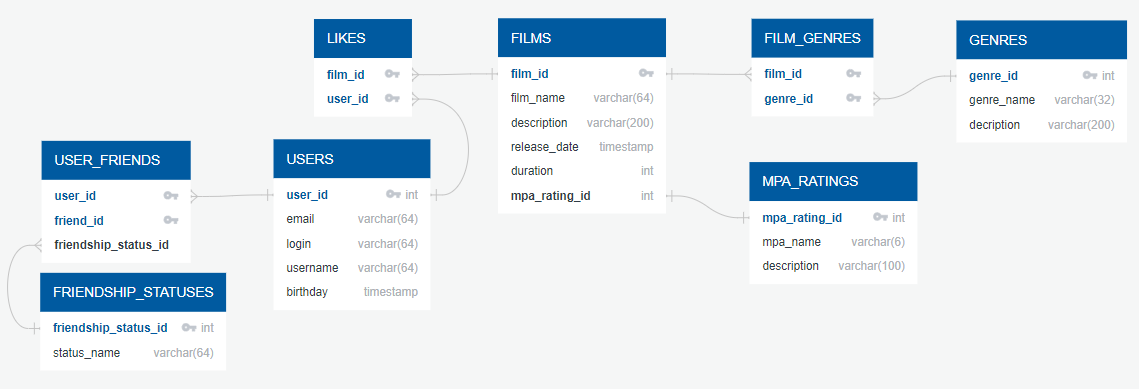
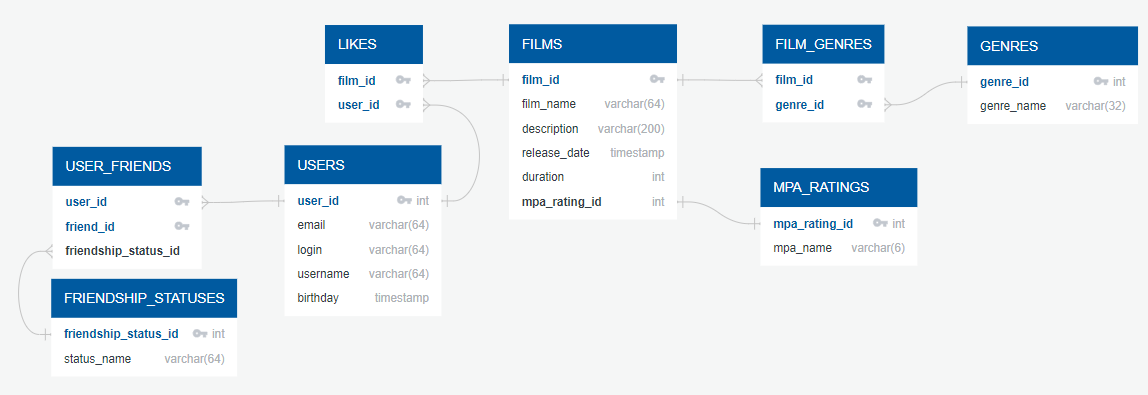
feat: добавлены DAO для mpa и genres

diff --git a/src/main/java/ru/yandex/practicum/filmorate/service/FilmService.java b/src/main/java/ru/yandex/practicum/filmorate/service/FilmService.java
@@ -6,8 +6,12 @@ import org.springframework.stereotype.Service;
 import ru.yandex.practicum.filmorate.exceptions.FilmNotFoundException;
 import ru.yandex.practicum.filmorate.exceptions.InvalidFilmException;
 import ru.yandex.practicum.filmorate.model.Film;
+import ru.yandex.practicum.filmorate.model.Genre;
+import ru.yandex.practicum.filmorate.model.MpaRating;
+import ru.yandex.practicum.filmorate.storage.dao.GenreDao;
 import ru.yandex.practicum.filmorate.storage.dao.LikesDao;
 import ru.yandex.practicum.filmorate.storage.dao.FilmStorageDao;
+import ru.yandex.practicum.filmorate.storage.dao.MpaRatingDao;
 
 import java.util.ArrayList;
 import java.util.List;
@@ -17,11 +21,18 @@ public class FilmService {
 
     private final FilmStorageDao filmStorageDao;
     private final LikesDao likesDao;
+    private final GenreDao genreDao;
+    private final MpaRatingDao mpaRatingDao;
 
     @Autowired
-    public FilmService(@Qualifier("filmDbStorageDaoImpl") FilmStorageDao filmStorageDao, LikesDao likesDao) {
+    public FilmService(@Qualifier("filmDbStorageDaoImpl") FilmStorageDao filmStorageDao,
+                       LikesDao likesDao,
+                       GenreDao genreDao,
+                       MpaRatingDao mpaRatingDao) {
         this.filmStorageDao = filmStorageDao;
         this.likesDao = likesDao;
+        this.genreDao = genreDao;
+        this.mpaRatingDao = mpaRatingDao;
     }
 
     public Film add(Film film) throws InvalidFilmException {
@@ -54,5 +65,21 @@ public class FilmService {
 
         if (result.size() <= count) return result;
         return result.subList(0, count);
+    }
+
+    public List<Genre> findAllGenres() {
+        return genreDao.findAllGenres();
+    }
+
+    public Genre findGenreById(long id) {
+        return genreDao.findGenreById(id);
+    }
+
+    public List<MpaRating> findAllMpaRatings() {
+        return mpaRatingDao.findAllMpaRatings();
+    }
+
+    public MpaRating findMpaRatingById(long id) {
+        return mpaRatingDao.findMpaRatingById(id);
     }
 }

diff --git a/src/main/java/ru/yandex/practicum/filmorate/storage/impl/MpaRatingDaoImpl.java b/src/main/java/ru/yandex/practicum/filmorate/storage/impl/MpaRatingDaoImpl.java
@@ -1,0 +1,42 @@
+package ru.yandex.practicum.filmorate.storage.impl;
+
+import org.springframework.beans.factory.annotation.Autowired;
+import org.springframework.data.relational.core.dialect.HsqlDbDialect;
+import org.springframework.jdbc.core.JdbcTemplate;
+import org.springframework.stereotype.Component;
+import ru.yandex.practicum.filmorate.model.MpaRating;
+import ru.yandex.practicum.filmorate.storage.dao.MpaRatingDao;
+
+import java.sql.ResultSet;
+import java.sql.SQLException;
+import java.util.List;
+
+@Component
+public class MpaRatingDaoImpl implements MpaRatingDao {
+
+    private final JdbcTemplate jdbcTemplate;
+
+    @Autowired
+    public MpaRatingDaoImpl(JdbcTemplate jdbcTemplate) {
+        this.jdbcTemplate = jdbcTemplate;
+    }
+
+    @Override
+    public List<MpaRating> findAllMpaRatings() {
+        String sqlQuery = "select * from MPA_RATINGS";
+        return jdbcTemplate.query(sqlQuery, this::makeMpaRating);
+    }
+
+    @Override
+    public MpaRating findMpaRatingById(long id) {
+        String sqlQuery = "select * from MPA_RATINGS where mpa_rating_id = ?";
+        return jdbcTemplate.query(sqlQuery, this::makeMpaRating, id).get(0);
+    }
+
+    private MpaRating makeMpaRating(ResultSet rs, int rowNum) throws SQLException {
+        return MpaRating.builder()
+                .id(rs.getLong("mpa_rating_id"))
+                .name(rs.getString("mpa_name"))
+                .build();
+    }
+}

diff --git a/src/main/java/ru/yandex/practicum/filmorate/storage/impl/GenreDaoImpl.java b/src/main/java/ru/yandex/practicum/filmorate/storage/impl/GenreDaoImpl.java
@@ -1,0 +1,41 @@
+package ru.yandex.practicum.filmorate.storage.impl;
+
+import org.springframework.beans.factory.annotation.Autowired;
+import org.springframework.jdbc.core.JdbcTemplate;
+import org.springframework.stereotype.Component;
+import ru.yandex.practicum.filmorate.model.Genre;
+import ru.yandex.practicum.filmorate.storage.dao.GenreDao;
+
+import java.sql.ResultSet;
+import java.sql.SQLException;
+import java.util.List;
+
+@Component
+public class GenreDaoImpl implements GenreDao {
+
+    private final JdbcTemplate jdbcTemplate;
+
+    @Autowired
+    public GenreDaoImpl(JdbcTemplate jdbcTemplate) {
+        this.jdbcTemplate = jdbcTemplate;
+    }
+
+    @Override
+    public List<Genre> findAllGenres() {
+        String sqlQuery = "select * from GENRES";
+        return jdbcTemplate.query(sqlQuery, this::makeGenre);
+    }
+
+    @Override
+    public Genre findGenreById(long id) {
+        String sqlQuery = "select * from GENRES where GENRE_ID = ?";
+        return jdbcTemplate.query(sqlQuery, this::makeGenre, id).get(0);
+    }
+
+    private Genre makeGenre(ResultSet rs, int rowNum) throws SQLException {
+        return Genre.builder()
+                .id(rs.getLong("genre_id"))
+                .name(rs.getString("genre_name"))
+                .build();
+    }
+}

diff --git a/src/main/java/ru/yandex/practicum/filmorate/controllers/FilmController.java b/src/main/java/ru/yandex/practicum/filmorate/controllers/FilmController.java
@@ -7,6 +7,8 @@ import ru.yandex.practicum.filmorate.exceptions.FilmNotFoundException;
 import ru.yandex.practicum.filmorate.exceptions.InvalidFilmException;
 import ru.yandex.practicum.filmorate.exceptions.UserNotFoundException;
 import ru.yandex.practicum.filmorate.model.Film;
+import ru.yandex.practicum.filmorate.model.Genre;
+import ru.yandex.practicum.filmorate.model.MpaRating;
 import ru.yandex.practicum.filmorate.service.FilmService;
 
 import java.time.LocalDate;
@@ -49,6 +51,26 @@ public class FilmController {
     public Film getFilmById(@PathVariable long id) {
         checkFilmId(id);
         return filmService.getFilmById(id);
+    }
+
+    @GetMapping("/genres")
+    public List<Genre> getAllGenres() {
+        return filmService.findAllGenres();
+    }
+
+    @GetMapping("/genres/{id}")
+    public Genre getGenresById(@PathVariable long id) {
+        return filmService.findGenreById(id);
+    }
+
+    @GetMapping("/mpa")
+    public List<MpaRating> getAllMpaRatings() {
+        return filmService.findAllMpaRatings();
+    }
+
+    @GetMapping("/mpa/{id}")
+    public MpaRating getMpaRatingById(@PathVariable long id) {
+        return filmService.findMpaRatingById(id);
     }
 
     @PutMapping("/{id}/like/{userId}")

diff --git a/src/main/java/ru/yandex/practicum/filmorate/storage/dao/MpaRatingDao.java b/src/main/java/ru/yandex/practicum/filmorate/storage/dao/MpaRatingDao.java
@@ -1,0 +1,12 @@
+package ru.yandex.practicum.filmorate.storage.dao;
+
+import ru.yandex.practicum.filmorate.model.MpaRating;
+
+import java.util.List;
+
+public interface MpaRatingDao {
+
+    List<MpaRating> findAllMpaRatings();
+
+    MpaRating findMpaRatingById(long id);
+}

diff --git a/src/main/java/ru/yandex/practicum/filmorate/storage/dao/GenreDao.java b/src/main/java/ru/yandex/practicum/filmorate/storage/dao/GenreDao.java
@@ -1,0 +1,11 @@
+package ru.yandex.practicum.filmorate.storage.dao;
+
+import ru.yandex.practicum.filmorate.model.Genre;
+
+import java.util.List;
+
+public interface GenreDao {
+    List<Genre> findAllGenres();
+
+    Genre findGenreById(long id);
+}

diff --git a/src/main/java/ru/yandex/practicum/filmorate/model/MpaRating.java b/src/main/java/ru/yandex/practicum/filmorate/model/MpaRating.java
@@ -10,5 +10,4 @@ import lombok.*;
 public class MpaRating {
     private long id;
     private String name;
-    private String description;
 }

diff --git a/src/main/java/ru/yandex/practicum/filmorate/model/Genre.java b/src/main/java/ru/yandex/practicum/filmorate/model/Genre.java
@@ -10,5 +10,4 @@ import lombok.*;
 public class Genre {
     private long id;
     private String name;
-    private String description;
 }
